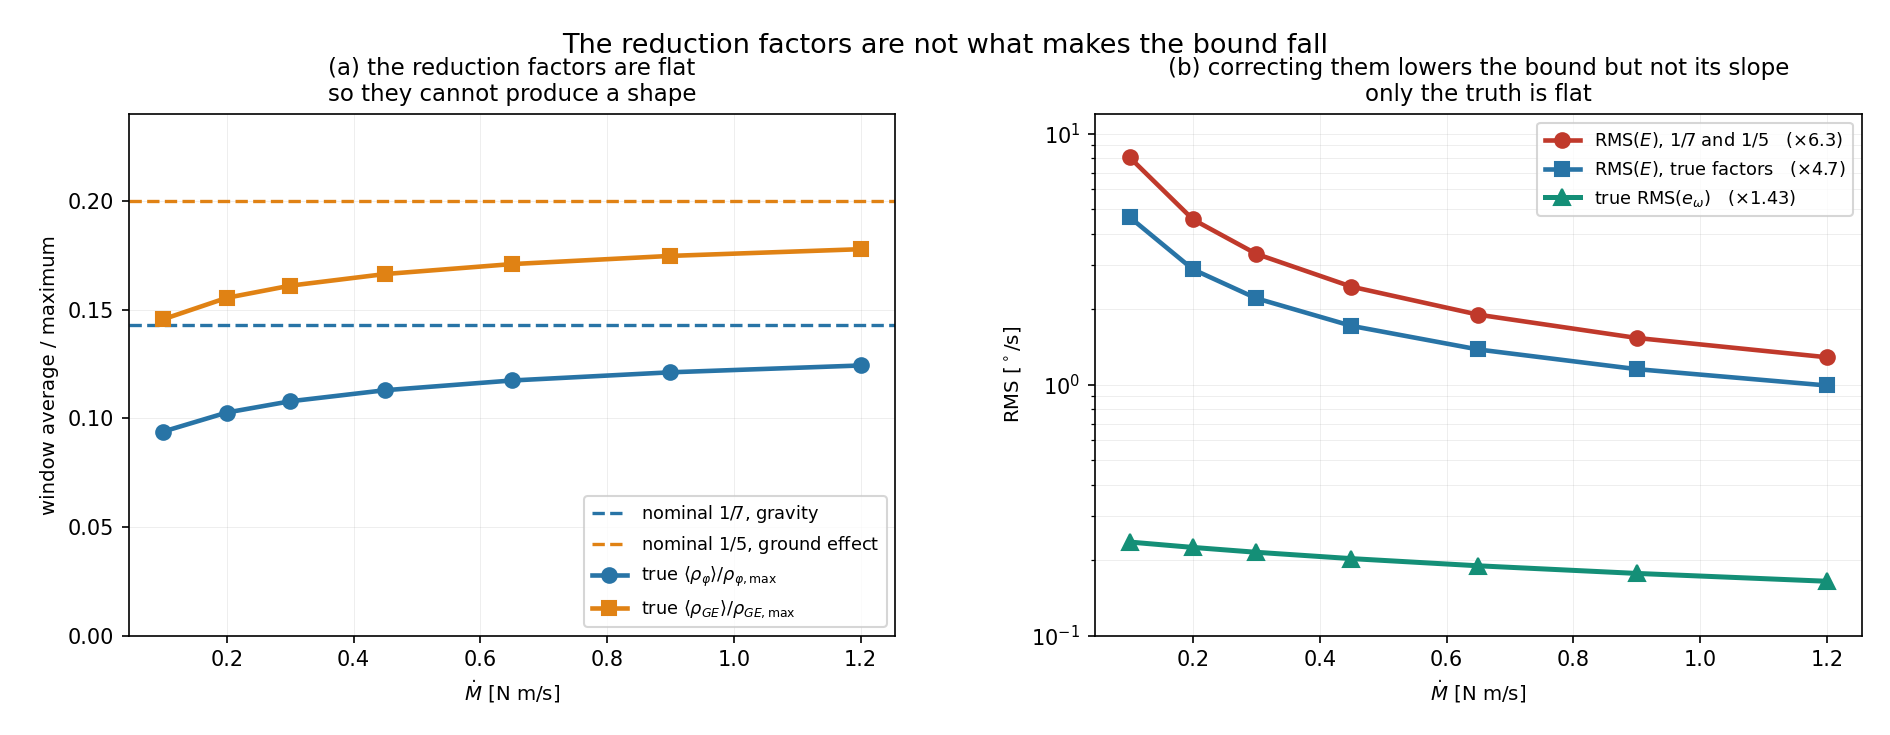
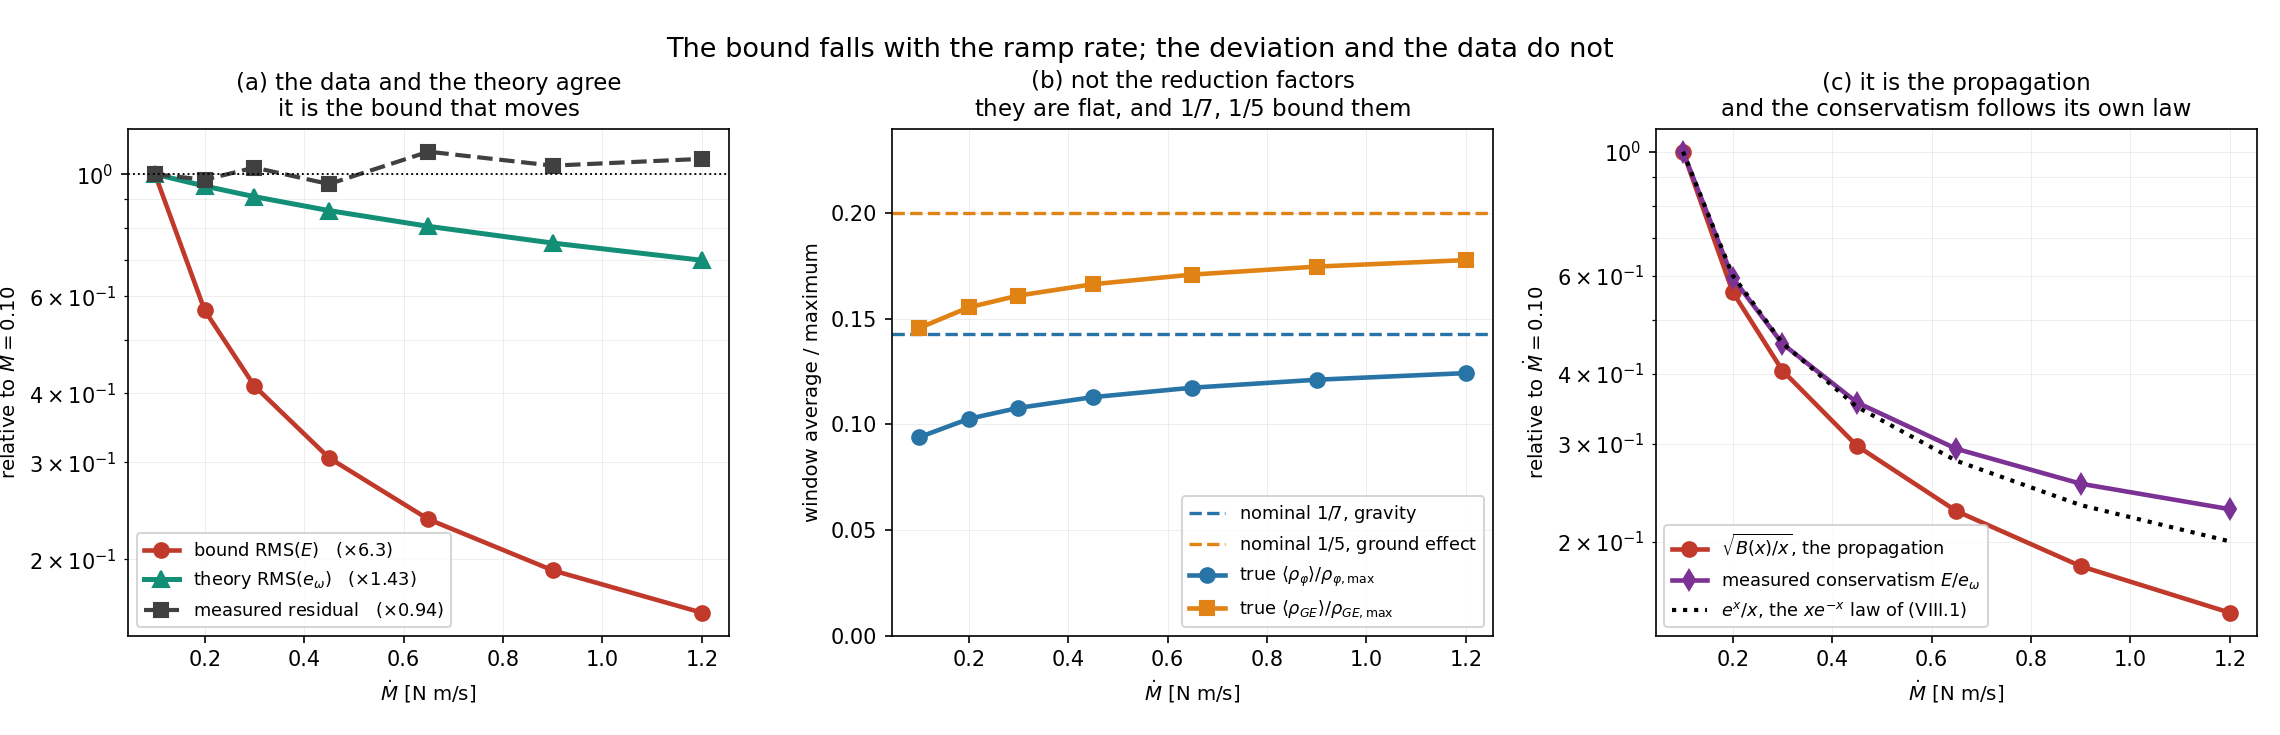
resolve the rate dependence: the bound moves, the deviation does not
The measured residual is flat against Mdot (Pearson r = +0.09, p = 0.30)
while RMS(E) falls 6.3-fold, which reads as data disagreeing with theory.
It is not.  Three measurements close it.

  the deviation the theory is about is also flat.  Integrating the exact
  nonlinear tip-over, RMS(e_omega) falls 1.43x across the rate range
  against the bound's 6.26.  Theory and data agree on the residual.

  the reduction factors are not what moves the bound.  True window-average
  ratios are 0.094-0.124 (gravity) and 0.146-0.178 (ground effect)
  against 1/7 = 0.143 and 1/5 = 0.200: the nominal values bound their
  channels with 15-52% margin, and replacing them turns 6.26x into 4.7x.
  A factor that barely moves cannot produce a shape.

  the propagation does.  RMS(E) = rho_bar K C2 sqrt(B(x)/x), and
  sqrt(B(x)/x) alone falls 6.69x -- the whole of it.  rho_bar is flat,
  9.8 to 10.5 mN.m.

And the conservatism has its own closed form: E/e_omega falls 34.1 to
7.8, a factor 4.37, against the 4.98 the x e^-x law of (VIII.1)
predicts.  Replacing a rising rho by a constant under a kernel whose
dynamic range is e^x costs a factor that grows with the window, and the
window is longest at the slowest ramp.

The figure is now three panels: what is flat and what is not, that it is
not the reduction factors, and that it is the propagation.

Claude-Session: https://claude.ai/code/session_01BM6bcsm1ZtLtgegEeuFDVS

diff --git a/analysis/reduction_factors.py b/analysis/reduction_factors.py
@@ -1,32 +1,34 @@
 #!/usr/bin/env python3
-"""Do the reduction factors explain the shape of the residual bound?
+"""Why the bound depends on the ramp rate when the data does not.
 
-The envelope of (93) uses rho_bar <= rho_phi,max/7 + rho_GE,max/5, and
-the two constants are stand-ins for the window averages of the two
-channels.  Since the measured residual is flat across the ramp rates
-while RMS(E) falls sixfold, it is worth asking whether the constants are
-what makes the difference -- whether computing them properly, per rate,
-would flatten the bound.
+The measured residual is flat across a twelvefold change in ramp rate --
+Pearson r = +0.09 against Mdot, p = 0.30 -- while RMS(E) falls 6.3-fold.
+That reads as a disagreement between the data and the theory, and it is
+not one.  Three measurements settle it.
 
-It would not, and the reason is visible before any arithmetic: the true
-reduction factors are themselves nearly flat.  Measured on the exact
-nonlinear tip-over they run 0.094 to 0.124 for the gravity channel and
-0.146 to 0.178 for the ground-effect one, against the 1/7 = 0.143 and
-1/5 = 0.200 in use.  Both nominal values do bound their channel, with
-15 to 52% of margin, but a factor that barely moves cannot produce a
-shape.
+  the deviation the theory is about is ALSO flat.  Integrating the exact
+  nonlinear tip-over, RMS(e_omega) falls 1.43-fold across the rates,
+  0.236 to 0.165 deg/s, against the bound's 6.26.  Theory and data agree
+  on the residual; it is the bound that moves.
 
-So replacing them lowers RMS(E) by 1.3 to 1.7 and leaves the slope
-almost untouched: the bound still falls 4.7-fold across the rates where
-it fell 6.3-fold before, while the true RMS(e_omega) falls only 1.43.
+  the reduction factors are not what moves it.  The true window-average
+  ratios are 0.094-0.124 for gravity and 0.146-0.178 for ground effect,
+  against the 1/7 = 0.143 and 1/5 = 0.200 in use.  Both nominal values
+  bound their channel with 15-52% of margin, so the choice is sound, but
+  a factor that barely moves cannot produce a shape: replacing them
+  lowers RMS(E) by 1.3-1.7x and turns 6.26-fold into 4.7-fold.
 
-The shape is in the propagation, not the reduction.  RMS(E) carries
-sqrt(B(x)/x) with x = C2 tau_end, which grows with the window, and the
-window is longest at the slowest ramp.  The true deviation has no such
-factor: e_omega is the Duhamel integral of a rho set by the tilt
-excursion, and every run covers the same excursion because every window
-ends at the same tilt cap.  What differs is only how fast it is
-traversed.
+  what moves it is the propagation.  RMS(E) = rho_bar K C2 sqrt(B(x)/x)
+  with x = C2 tau_end, and sqrt(B(x)/x) alone falls 6.69-fold across the
+  rate range -- the whole of the 6.26.  rho_bar itself is flat, 9.8 to
+  10.5 mN.m.
+
+So the bound's rate dependence is conservatism, not a prediction about
+the residual, and the conservatism has a closed form.  E/e_omega falls
+34.1 to 7.8, a factor 4.37, against the 4.98 that the x e^-x law of
+(VIII.1) predicts.  Replacing a rising rho by the constant rho_bar under
+a kernel whose dynamic range is e^x costs a factor that grows with the
+window, and the window is longest at the slowest ramp.
 
 Usage: python analysis/reduction_factors.py [out.png]
 """
@@ -41,6 +43,7 @@ import matplotlib.pyplot as plt
 
 sys.path.insert(0, os.path.dirname(os.path.abspath(__file__)))
 from nonlinear_band import exact, J_P, RPHI, RGE
+from rms_check import measure
 
 RATES = (0.10, 0.20, 0.30, 0.45, 0.65, 0.90, 1.20)
 C_NOM, C_TRUE, C_E, C_PHI, C_GE = '#c0392b', '#148f77', '#2874a6', \
@@ -59,9 +62,11 @@ def collect():
         fg = float(np.trapz(rg, tau) / T / rg.max())
         rb_true = fp * rp.max() + fg * rg.max()
         k = np.sinh(c2 * tau) / (J_P * c2)
+        B = 0.25 * np.sinh(2 * s['x']) - 0.5 * s['x']
         out.append(dict(mdot=m, x=float(s['x']), fp=fp, fg=fg,
                         E_nom=rms(rb * k), E_true=rms(rb_true * k),
-                        e=rms(s['e'])))
+                        e=rms(s['e']), sqB=float(np.sqrt(B / s['x'])),
+                        law=float(np.exp(s['x']) / s['x'])))
     return out
 
 
@@ -70,70 +75,95 @@ def main():
     r = collect()
     d2 = np.rad2deg
     md = [d['mdot'] for d in r]
+    with open(os.path.join(os.path.dirname(os.path.abspath(__file__)),
+                           '.failing_cache.pkl'), 'rb') as fh:
+        import pickle
+        rows = measure(pickle.load(fh))
+    meas = [float(np.mean([q['rms_min'] for q in rows
+                           if abs(q['rate'] - m) < 1e-6])) for m in md]
 
-    fig, (a1, a2) = plt.subplots(1, 2, figsize=(12.6, 4.9))
-    fig.subplots_adjust(left=0.068, right=0.985, top=0.845, bottom=0.135,
-                        wspace=0.26)
+    fig, (a1, a2, a3) = plt.subplots(1, 3, figsize=(15.2, 4.9))
+    fig.subplots_adjust(left=0.056, right=0.99, top=0.825, bottom=0.135,
+                        wspace=0.27)
 
-    # ---- (a) the reduction factors themselves ----------------------
-    a1.axhline(RPHI, color=C_PHI, ls='--', lw=1.6,
-               label=r'nominal $1/7$, gravity')
-    a1.axhline(RGE, color=C_GE, ls='--', lw=1.6,
-               label=r'nominal $1/5$, ground effect')
-    a1.plot(md, [d['fp'] for d in r], 'o-', color=C_PHI, lw=2.2, ms=7,
-            label=r'true $\langle\rho_\varphi\rangle/\rho_{\varphi,\max}$')
-    a1.plot(md, [d['fg'] for d in r], 's-', color=C_GE, lw=2.2, ms=7,
-            label=r'true $\langle\rho_{GE}\rangle/\rho_{GE,\max}$')
-    a1.set_ylim(0, 0.24)
-    a1.set_xlabel(r'$\dot M$ [N m/s]', fontsize=9.5)
-    a1.set_ylabel('window average / maximum', fontsize=9.5)
-    a1.set_title('(a) the reduction factors are flat\n'
-                 'so they cannot produce a shape', fontsize=11)
-    a1.legend(fontsize=8.5, loc='lower right')
-    a1.grid(alpha=0.25, lw=0.4)
-
-    # ---- (b) what that does to the bound ---------------------------
+    # ---- (a) everything normalised: what is flat and what is not ---
     en = np.array([d2(d['E_nom']) for d in r])
-    et = np.array([d2(d['E_true']) for d in r])
     ee = np.array([d2(d['e']) for d in r])
-    a2.plot(md, en, 'o-', color=C_NOM, lw=2.2, ms=7,
-            label=f'$\\mathrm{{RMS}}(E)$, $1/7$ and $1/5$'
-                  f'   ($\\times${en[0]/en[-1]:.1f})')
-    a2.plot(md, et, 's-', color=C_E, lw=2.2, ms=7,
-            label=f'$\\mathrm{{RMS}}(E)$, true factors'
-                  f'   ($\\times${et[0]/et[-1]:.1f})')
-    a2.plot(md, ee, '^-', color=C_TRUE, lw=2.4, ms=8,
-            label=f'true $\\mathrm{{RMS}}(e_\\omega)$'
+    mm = np.array(meas)
+    a1.plot(md, en / en[0], 'o-', color=C_NOM, lw=2.2, ms=7,
+            label=f'bound $\\mathrm{{RMS}}(E)$   ($\\times${en[0]/en[-1]:.1f})')
+    a1.plot(md, ee / ee[0], '^-', color=C_TRUE, lw=2.4, ms=8,
+            label=f'theory $\\mathrm{{RMS}}(e_\\omega)$'
                   f'   ($\\times${ee[0]/ee[-1]:.2f})')
-    a2.set_yscale('log')
-    a2.set_xlabel(r'$\dot M$ [N m/s]', fontsize=9.5)
-    a2.set_ylabel(r'RMS [$^\circ$/s]', fontsize=9.5)
-    a2.set_title('(b) correcting them lowers the bound but not its slope\n'
-                 'only the truth is flat', fontsize=11)
-    a2.set_ylim(0.10, 12.0)
-    a2.legend(fontsize=8.5, loc='upper right')
-    a2.grid(alpha=0.25, lw=0.4, which='both')
+    a1.plot(md, mm / mm[0], 's--', color='0.25', lw=2.0, ms=6.5,
+            label=f'measured residual   ($\\times${mm[0]/mm[-1]:.2f})')
+    a1.axhline(1.0, color='k', lw=0.9, ls=':')
+    a1.set_yscale('log')
+    a1.set_xlabel(r'$\dot M$ [N m/s]', fontsize=9.5)
+    a1.set_ylabel(r'relative to $\dot M = 0.10$', fontsize=9.5)
+    a1.set_title('(a) the data and the theory agree\n'
+                 'it is the bound that moves', fontsize=11)
+    a1.legend(fontsize=8.5, loc='lower left')
+    a1.grid(alpha=0.25, lw=0.4, which='both')
 
-    fig.suptitle('The reduction factors are not what makes the bound fall',
-                 fontsize=13, y=0.955)
+    # ---- (b) it is not the reduction factors -----------------------
+    a2.axhline(RPHI, color=C_PHI, ls='--', lw=1.6,
+               label=r'nominal $1/7$, gravity')
+    a2.axhline(RGE, color=C_GE, ls='--', lw=1.6,
+               label=r'nominal $1/5$, ground effect')
+    a2.plot(md, [d['fp'] for d in r], 'o-', color=C_PHI, lw=2.2, ms=7,
+            label=r'true $\langle\rho_\varphi\rangle/\rho_{\varphi,\max}$')
+    a2.plot(md, [d['fg'] for d in r], 's-', color=C_GE, lw=2.2, ms=7,
+            label=r'true $\langle\rho_{GE}\rangle/\rho_{GE,\max}$')
+    a2.set_ylim(0, 0.24)
+    a2.set_xlabel(r'$\dot M$ [N m/s]', fontsize=9.5)
+    a2.set_ylabel('window average / maximum', fontsize=9.5)
+    a2.set_title('(b) not the reduction factors\n'
+                 'they are flat, and $1/7$, $1/5$ bound them', fontsize=11)
+    a2.legend(fontsize=8.5, loc='lower right')
+    a2.grid(alpha=0.25, lw=0.4)
+
+    # ---- (c) it is the propagation, and it has a closed form -------
+    sq = np.array([d['sqB'] for d in r])
+    law = np.array([d['law'] for d in r])
+    a3.plot(md, sq / sq[0], 'o-', color=C_NOM, lw=2.2, ms=7,
+            label=r'$\sqrt{B(x)/x}$, the propagation')
+    a3.plot(md, (en / ee) / (en / ee)[0], 'd-', color='#7b3294', lw=2.2,
+            ms=7, label=r'measured conservatism $E/e_\omega$')
+    a3.plot(md, law / law[0], ':', color='k', lw=2.0,
+            label=r'$e^{x}/x$, the $xe^{-x}$ law of (VIII.1)')
+    a3.set_yscale('log')
+    a3.set_xlabel(r'$\dot M$ [N m/s]', fontsize=9.5)
+    a3.set_ylabel(r'relative to $\dot M = 0.10$', fontsize=9.5)
+    a3.set_title('(c) it is the propagation\n'
+                 'and the conservatism follows its own law', fontsize=11)
+    a3.legend(fontsize=8.5, loc='lower left')
+    a3.grid(alpha=0.25, lw=0.4, which='both')
+
+    fig.suptitle('The bound falls with the ramp rate; the deviation and the '
+                 'data do not', fontsize=13, y=0.95)
     fig.savefig(out, dpi=150)
 
     print(f"\n  wrote {out}\n")
     print(f"  {'Mdot':>6}{'x':>6}{'factor phi':>12}{'factor GE':>11}"
-          f"{'E, 1/7+1/5':>13}{'E, true':>10}{'true e':>10}")
+          f"{'RMS(E)':>9}{'RMS(e)':>9}{'measured':>10}{'E/e':>7}")
     print(f"  {'N m/s':>6}{'':6}{'(1/7=.143)':>12}{'(1/5=.200)':>11}"
-          f"{'deg/s':>13}{'deg/s':>10}{'deg/s':>10}")
-    for d in r:
+          f"{'deg/s':>9}{'deg/s':>9}{'deg/s':>10}{'':7}")
+    for d, q in zip(r, meas):
         print(f"  {d['mdot']:6.2f}{d['x']:6.2f}{d['fp']:12.4f}{d['fg']:11.4f}"
-              f"{d2(d['E_nom']):13.3f}{d2(d['E_true']):10.3f}"
-              f"{d2(d['e']):10.4f}")
-    print(f"\n  across the rate range: the bound falls"
-          f" {en[0]/en[-1]:.1f}x with the nominal factors and"
-          f" {et[0]/et[-1]:.1f}x with the true ones,")
-    print(f"  while the true deviation falls {ee[0]/ee[-1]:.2f}x."
-          f"  Correcting the factors buys a level")
-    print(f"  ({en[0]/et[0]:.1f}x at the slowest rate,"
-          f" {en[-1]/et[-1]:.1f}x at the fastest), not a slope.")
+              f"{d2(d['E_nom']):9.3f}{d2(d['e']):9.4f}{q:10.3f}"
+              f"{d2(d['E_nom'])/d2(d['e']):7.1f}")
+    print(f"\n  across the rate range")
+    print(f"    bound RMS(E)          falls {en[0]/en[-1]:.2f}x")
+    print(f"    of which sqrt(B(x)/x)       {sq[0]/sq[-1]:.2f}x   <- all of it")
+    print(f"    theory RMS(e_omega)   falls {ee[0]/ee[-1]:.2f}x")
+    print(f"    measured residual     falls {mm[0]/mm[-1]:.2f}x")
+    print(f"    conservatism E/e      falls {(en/ee)[0]/(en/ee)[-1]:.2f}x,"
+          f" against {law[0]/law[-1]:.2f} from the x e^-x law")
+    print(f"\n  So the data and the theory agree that the residual does not")
+    print(f"  depend on the ramp rate.  What depends on it is the bound, and")
+    print(f"  its dependence is the known conservatism of replacing a rising")
+    print(f"  rho by a constant under a kernel of dynamic range e^x.")
     return 0
 
 
